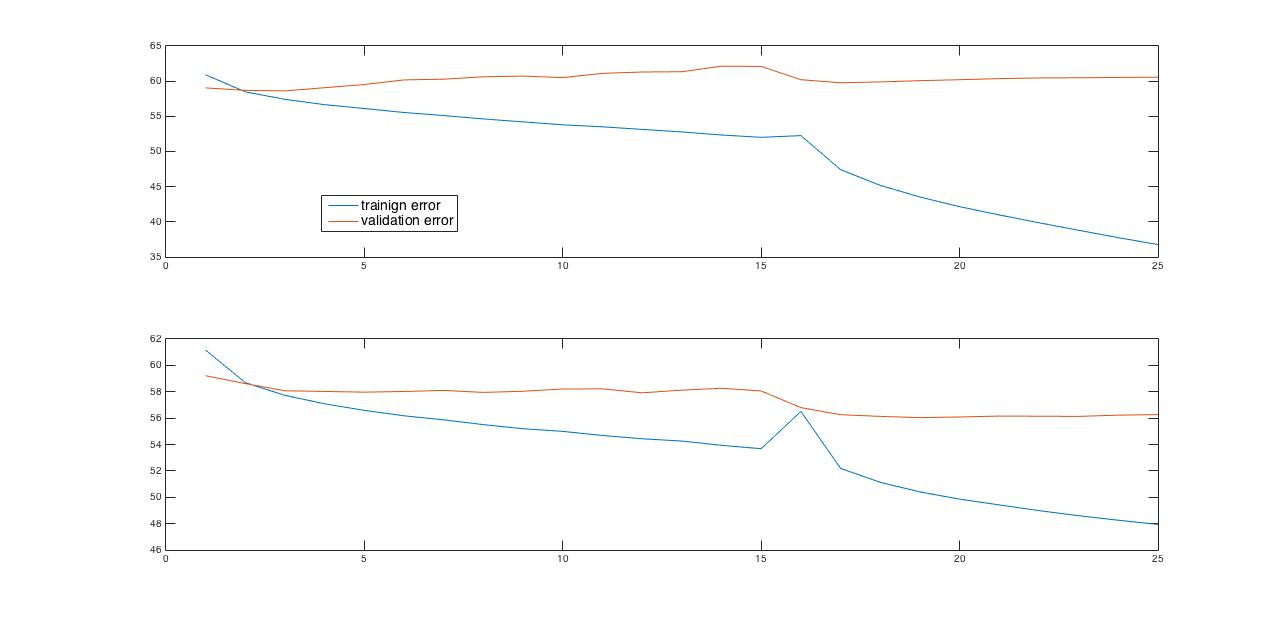
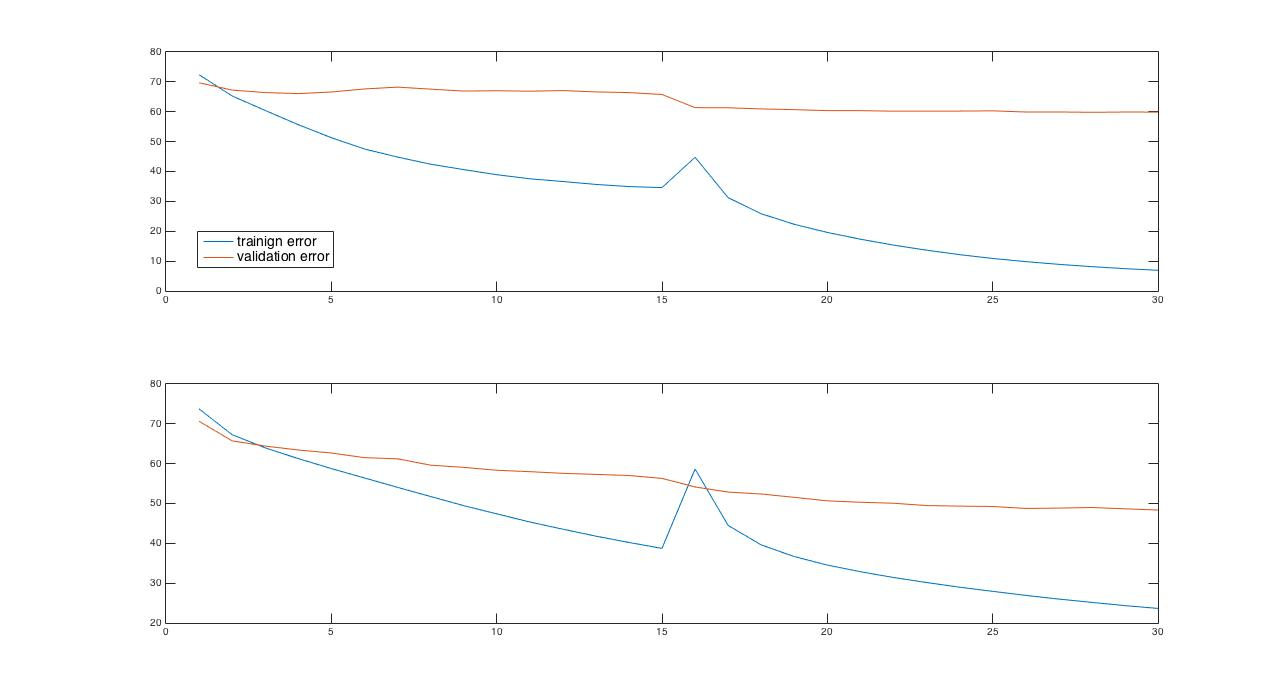
New results

diff --git a/tools/plotting.m b/tools/plotting.m
@@ -1,115 +1,83 @@
 
 training_err1 = [ ...
-    60.904393 ...
-    58.478256 ...
-    57.412171 ...
-    56.657369 ...
-    56.111483 ...
-    55.546380 ...
-    55.107807 ...
-    54.628897 ...
-    54.210207 ...
-    53.797035 ...
-    53.510868 ...
-    53.138890 ...
-    52.778042 ...
-    52.348412 ...
-    52.013536 ...
-    52.261839 ...
-    47.427069 ...
-    45.180262 ...
-    43.526147 ...
-    42.157342 ...
-    40.976715 ...
-    39.867819 ...
-    38.801069 ...
-    37.748493 ...
-    36.766032 ...
+ 72.400261 ...
+ 65.278160 ...
+ 60.431426 ...
+ 55.676526 ...
+ 51.315203 ...
+ 47.531781 ...
+ 44.838568 ...
+ 42.442013 ...
+ 40.643203 ...
+ 38.928356 ...
+ 37.557397 ...
+ 36.644954 ...
+ 35.674787 ...
+ 34.959790 ...
+ 34.615902 ...
+ 44.757229 ...
+ 31.232453 ...
+ 25.850782 ...
+ 22.320890 ...
+ 19.603078 ...
+ 17.332303 ...
+ 15.364091 ...
+ 13.663839 ...
+ 12.166608 ...
+ 10.892731 ...
+ 9.831549 ...
+ 8.915007 ...
+ 8.149992 ...
+ 7.483699 ...
+ 6.933676 ...
     ];
 
 validation_err1 = [ ...
-    59.042245 ...
-    58.688593 ...
-    58.617059 ...
-    59.072788 ...
-    59.522891 ...
-    60.181970 ...
-    60.282440 ...
-    60.625643 ...
-    60.723701 ...
-    60.506687 ...
-    61.109504 ...
-    61.303209 ...
-    61.340985 ...
-    62.130273 ...
-    62.100534 ...
-    60.210102 ...
-    59.772055 ...
-    59.892618 ...
-    60.070248 ...
-    60.209298 ...
-    60.362011 ...
-    60.458462 ...
-    60.483378 ...
-    60.528389 ...
-    60.568576 ...
+    69.7087   67.2515   66.4200   66.0744   66.6111   67.6260   68.2427   67.5678 ...
+    66.9222   67.0325   66.8800   67.0890   66.6454   66.4157   65.7820   61.3663 ...
+    61.3324   60.9494   60.7023   60.3761   60.3703   60.1913   60.2098   60.2274 ...
+    60.3042   59.9164   59.9269   59.8143   59.9089   59.8869 ...
     ];
 
 
 training_err2 = [ ...
-    61.155360 ...
-    58.688695 ...
-    57.722026 ...
-    57.086048 ...
-    56.586683 ...
-    56.175604 ...
-    55.868413 ...
-    55.505377 ...
-    55.197044 ...
-    54.994311 ...
-    54.683599 ...
-    54.434726 ...
-    54.260629 ...
-    53.936693 ...
-    53.680970 ...
-    56.509434 ...
-    52.188965 ...
-    51.130111 ...
-    50.404990 ...
-    49.855680 ...
-    49.417773 ...
-    48.986145 ...
-    48.601703 ...
-    48.257409 ...
-    47.940324 ...
+ 73.749082  ...
+ 67.265067  ...
+ 63.970665  ...
+ 61.269908  ...
+ 58.767744  ...
+ 56.414482  ...
+ 54.056629  ...
+ 51.755845  ...
+ 49.468835  ...
+ 47.412560  ...
+ 45.358745  ...
+ 43.551572  ...
+ 41.807862  ...
+ 40.218468  ...
+ 38.734847  ...
+ 58.649179  ...
+ 44.490580  ...
+ 39.609244  ...
+ 36.675457  ...
+ 34.537678  ...
+ 32.873832  ...
+ 31.426782  ...
+ 30.163728  ...
+ 28.987589  ...
+ 27.946087  ...
+ 26.930822  ...
+ 26.006245  ...
+ 25.177110  ...
+ 24.365849  ...
+ 23.660035  ...
     ];
 
 validation_err2 = [ ...
-    59.219072 ...
-    58.617863 ...
-    58.072917 ...
-    58.023888 ...
-    57.970036 ...
-    58.019869 ...
-    58.101852 ...
-    57.949942 ...
-    58.039963 ...
-    58.204733 ...
-    58.220004 ...
-    57.919399 ...
-    58.122749 ...
-    58.264210 ...
-    58.060057 ...
-    56.794946 ...
-    56.259645 ...
-    56.131848 ...
-    56.036201 ...
-    56.086838 ...
-    56.156764 ...
-    56.143904 ...
-    56.131848 ...
-    56.226691 ...
-    56.266075 ...
+    70.6440   65.7225   64.4159   63.4376   62.6747   61.5092   61.2220   59.6274 ...
+    59.0727   58.3391   57.9937   57.5717   57.3065   57.0302   56.2999   54.1556 ...
+    52.8728   52.3862   51.5482   50.6609   50.3139   50.0643   49.4869   49.3392 ...
+    49.2499   48.7598   48.8452   48.9908   48.6652   48.3567 ...
     ];
 
 

diff --git a/README.md b/README.md
@@ -258,16 +258,17 @@ python tools/evaluate.py \
 
 ### Results ###
 
-| DNN type      | Test set      | Frame level error (%) | Phoneme level error (%) |
-|:-------------:|:-------------:| :--------------------:| :----------------------:|
-| baseline      | A             | 81.99                 | 70.63                   |
-| with dropout  | A             | 78.44                 | 65.66                   |
-| baseline      | B             | 88.64                 | 77.56                   |
-| with dropout  | B             | 86.59                 | 74.21                   |
-| baseline      | C             | 87.35                 | 75.83                   |
-| with dropout  | C             | 84.94                 | 72.00                   |
-| baseline      | D             | 87.44                 | 76.28                   |
-| with dropout  | D             | 85.07                 | 72.55                   |
-| baseline      | AVG           | 86.36                 | 75.05                   |
-| with dropout  | AVG           | 83.51                 | 71.11                   |
+#### Frame level accuracy ####
+
+| DNN type      | Test set A    | Test set B 	| Test set C 	 | Test set D 	| AVG 		|
+|:-------------:|:-------------:|:-------------:|:--------------:|:------------:|:---------:|
+| baseline      | 63.15         | 69.39         | 62.63          | 62.02 		| 64.30 	|
+| with dropout  | 50.00         | 54.03         | 51.66          | 52.89 		| 52.15 	|
+
+#### Phoneme level accuracy ####
+
+| DNN type      | Test set A    | Test set B 	| Test set C 	 | Test set D 	| AVG 		|
+|:-------------:|:-------------:|:-------------:|:--------------:|:------------:|:---------:|
+| baseline      | 54.40         | 58.92         | 55.03          | 54.16 		| 55.63 	|
+| with dropout  | 42.31         | 45.93         | 44.05          | 45.52 		| 44.45 	|
 
